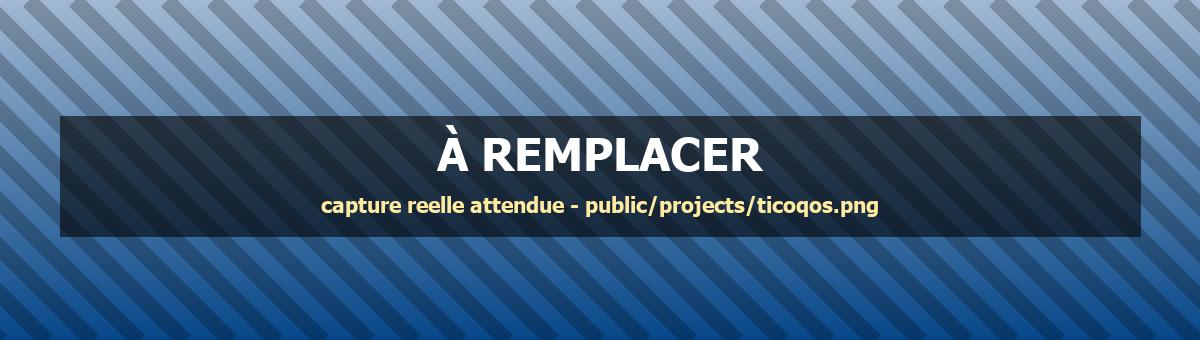
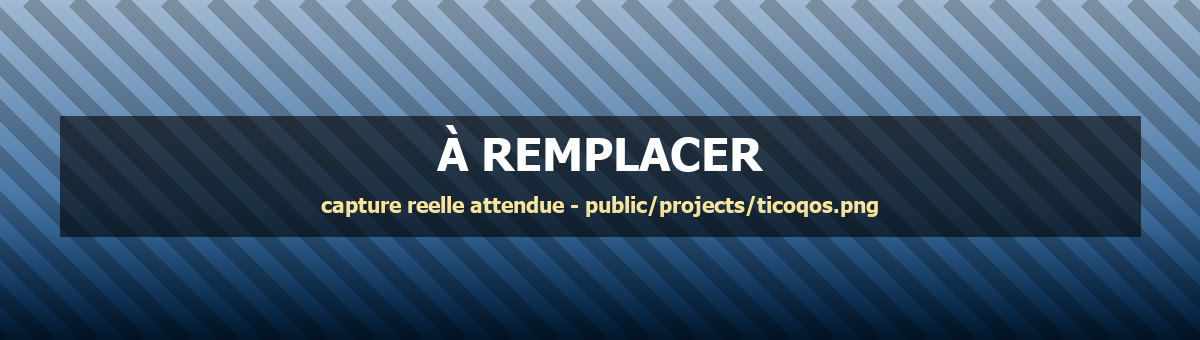
fix(images): atomic save_png, scrim the placeholder, correct stale docs
save_png wrote the PNG before checking its size, so a budget rejection
raised non-zero but still left a spec-violating file on disk. Write to
a .tmp path and os.replace onto the target only once both the
dimension and budget checks pass, so a rejected or interrupted write
never leaves anything visible at the target path.

placeholder() was the only motif not ending in add_scrim, so
ticoqos.png's bottom-left - where ProjectSlide overlays the same white
title as every other slide - sat noticeably lighter (lum 48-76 vs.
14-37 elsewhere). Added the call; the existing text box's alpha and
add_scrim's default strength do not stack into mud, confirmed by eye
after regenerating.

Also: make_covers.py's docstring and README.md said "six" banners,
stale since two projects were added; and README.md claimed accent
syncs the hero and rail colour, which is false - no component reads
`accent`, the rail's colour comes from `gradient`, and the two only
matched for pictarine-tooling because both were set to the same hex
by hand.

Regenerated all eight banners with python3 scripts/images/make_covers.py.

Changed region(s): [[0.0, 0.7059, 1.0, 1.0]]

diff --git a/scripts/images/make_covers.py b/scripts/images/make_covers.py
@@ -1,4 +1,4 @@
-"""Draws the six project banners into public/projects/.
+"""Draws the eight project banners into public/projects/.
 
 Run from the repository root:  python3 scripts/images/make_covers.py
 
@@ -138,7 +138,17 @@ def cedict(accent):
 
 
 def placeholder(accent):
-    """Impossible to mistake for finished work. The one banner allowed words."""
+    """Impossible to mistake for finished work. The one banner allowed words.
+
+    Ends with add_scrim like every other motif: ProjectSlide overlays the
+    white title at the bottom-left of this banner too, so it needs the same
+    guarantee. The text box above already darkens rows 116-236 on its own
+    (fill alpha 150); add_scrim's curve only reaches noticeable strength past
+    ~y=230 (its band starts at y=190 and ramps with an easing power, so the
+    first 40px contribute very little), so the overlap stays mild rather than
+    stacking into the mud finding 3 fixed elsewhere - confirmed by eye after
+    regenerating.
+    """
     img = new_banner(shade(accent, 0.7))
     d = draw(img)
     for x in range(-HEIGHT, WIDTH + HEIGHT, 46):
@@ -152,7 +162,7 @@ def placeholder(accent):
         fill=(255, 235, 160),
         anchor='mm',
     )
-    return img
+    return add_scrim(img)
 
 
 # ASCII only in the second placeholder line: the fallback fonts on a bare Linux

diff --git a/scripts/images/banner.py b/scripts/images/banner.py
@@ -77,14 +77,22 @@ def save_png(img, path):
     exactly what PNG compresses best — a representative one is under 4 kB, an
     order of magnitude below the budget. The installed Pillow also has no WebP
     support, so WebP would have cost a dependency to produce a heavier file.
+
+    Written to a temporary path first and only `os.replace`d onto the target
+    once both checks pass. That keeps a rejected or interrupted write from
+    ever being visible at `path`: a size that misses budget never reaches the
+    target at all, and a crash mid-write leaves only the `.tmp` file behind.
     """
     if img.size != (WIDTH, HEIGHT):
         raise SystemExit(f'{path}: expected {WIDTH}x{HEIGHT}, got {img.width}x{img.height}')
     os.makedirs(os.path.dirname(path), exist_ok=True)
-    img.save(path, 'PNG', optimize=True)
-    size = os.path.getsize(path)
+    tmp_path = f'{path}.tmp'
+    img.save(tmp_path, 'PNG', optimize=True)
+    size = os.path.getsize(tmp_path)
     if size > MAX_BYTES:
+        os.remove(tmp_path)
         raise SystemExit(f'{path}: {size:,} bytes, over the {MAX_BYTES:,} budget')
+    os.replace(tmp_path, path)
     print(f'  {path}  {img.width}x{img.height}  {size:,} bytes')
 
 

diff --git a/scripts/images/README.md b/scripts/images/README.md
@@ -1,6 +1,6 @@
 # Image generators
 
-One-off tools, run by hand. **Never wired into CI or the deploy path**: six files
+One-off tools, run by hand. **Never wired into CI or the deploy path**: eight files
 that change almost never do not justify Python in the build.
 
 ## Prerequisites
@@ -32,8 +32,12 @@ python3 scripts/images/make_og.py       # public/og-image.png
 - **No text inside a banner.** The site is bilingual: baked-in words would be wrong
   in the other language, and no `grep`, type or `i18n` parity test can catch them.
   `ProjectSlide` overlays the title, year and status itself.
-- Each banner takes its colour from the project's `accent`, so the hero and the rail
-  monogram agree.
+- Each banner's colour is a hex copied by hand into `make_covers.py`'s `BANNERS`
+  tuple — not read from any project data at build time. No component actually
+  renders `accent`; the rail's monogram tile gets its colour from `gradient` in
+  the project data. If a banner is meant to match the rail, copy the value from
+  `gradient` (as `pictarine-tooling` does) — nothing keeps the two in sync
+  automatically, so re-check by eye after either one changes.
 - The bottom band is darkened by `add_scrim` because the component's white title sits
   there.
 
